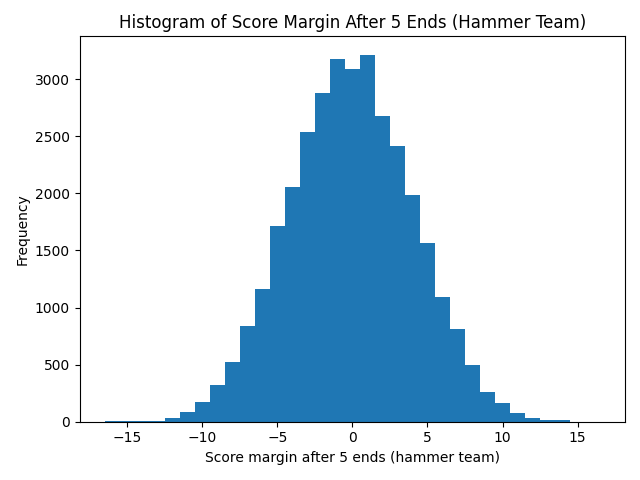
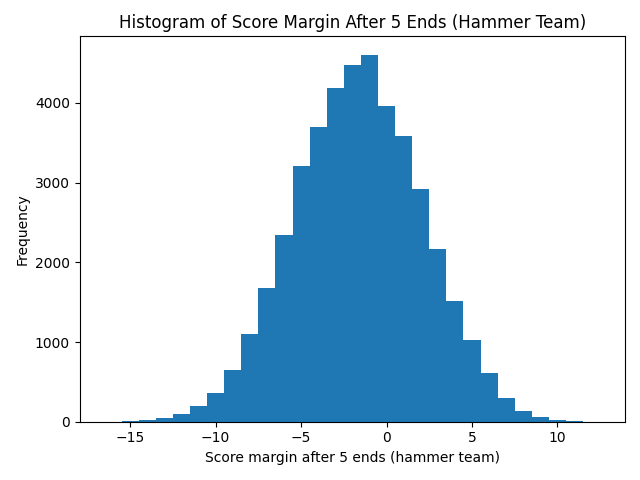
d

diff --git a/code/run_mcts.py b/code/run_mcts.py
@@ -51,13 +51,14 @@ for _ in range(matches):
     powerplays_remaining = {1: 1, 2: 1}
     pp_usage = {1: None, 2: None}
     start_hammer = hammer
-    root_team = 1
 
     for end in range(1, 9):
+        acting_team = hammer
+
         state = GameState(
             current_score = deepcopy(current_score),
             end_number = end, 
-            root_team = root_team,
+            root_team = acting_team,
             hammer_team = hammer,
             powerplay_used = deepcopy(powerplay_used),
             powerplays_remaining = deepcopy(powerplays_remaining)
@@ -66,12 +67,10 @@ for _ in range(matches):
         mcts = MCTS(bayesian_eval_continuous, 1000)
         best_action, _ = mcts.search(state)
         
-        if best_action == "PP" and powerplays_remaining[root_team] > 0:
+        if best_action == "PP" and powerplays_remaining[acting_team] > 0:
+            lead = int(current_score[hammer] - current_score[3 - hammer])
             if end == 6:
                 pp5_lead_check["pp6_total"] += 1
-
-                lead = int(current_score[root_team] - current_score[3 - root_team])
-
                 if lead > 0:
                     pp5_lead_check["hammer_leading_after_5"] += 1
                 elif lead < 0:
@@ -80,15 +79,10 @@ for _ in range(matches):
                     pp5_lead_check["hammer_tied_after_5"] += 1
 
                 pp5_lead_margin["total"] += 1
-                pp5_lead_margin["by_margin"][lead] = (
-                    pp5_lead_margin["by_margin"].get(lead, 0) + 1
-                )
+                pp5_lead_margin["by_margin"][lead] = pp5_lead_margin["by_margin"].get(lead, 0) + 1     
 
             if end == 7:
                 pp6_lead_check["pp7_total"] += 1
-
-                lead = int(current_score[root_team] - current_score[3 - root_team])
-
                 if lead > 0:
                     pp6_lead_check["hammer_leading_after_6"] += 1
                 elif lead < 0:
@@ -97,26 +91,24 @@ for _ in range(matches):
                     pp6_lead_check["hammer_tied_after_6"] += 1
 
                 pp6_lead_margin["total"] += 1
-                pp6_lead_margin["by_margin"][lead] = (
-                    pp6_lead_margin["by_margin"].get(lead, 0) + 1
-                )
+                pp6_lead_margin["by_margin"][lead] = pp6_lead_margin["by_margin"].get(lead, 0) + 1
+                
 
-            pp_usage[root_team] = end
+            pp_usage[acting_team] = end
             frequency_dict[end] += 1
-            powerplay_used[root_team] = True
-            powerplays_remaining[root_team] -= 1
+            powerplay_used[acting_team] = True
+            powerplays_remaining[acting_team] -= 1
 
+        
         dist = PROB_TABLE_END_DIFF[best_action][end]
         outcomes = list(dist.keys())
         probs = np.array(list(dist.values()), dtype=float)
         result = np.random.choice(outcomes, p=probs)        
 
-        opp_team = 3 - root_team
-
         if result > 0:
-            current_score[root_team] += result
+            current_score[hammer] += result
         elif result < 0:
-            current_score[opp_team] += -result
+            current_score[3 - hammer] += -result
  
         if result  > 0: 
             hammer = 3 - hammer  
@@ -125,11 +117,14 @@ for _ in range(matches):
         else:  
             hammer = 3 - hammer  
 
-    pp_end = pp_usage[root_team]
-    if pp_end is not None:
-        if current_score[root_team] > current_score[3 - root_team]:
+    for team in [1, 2]:
+        pp_end = pp_usage[team]
+        if pp_end is None:
+            continue
+        opp = 3 - team
+        if current_score[team] > current_score[opp]:
             wins_dict[pp_end] += 1
-        elif current_score[root_team] < current_score[3 - root_team]:
+        elif current_score[team] < current_score[opp]:
             loss_dict[pp_end] += 1
         else:
             draws_dict[pp_end] += 1
@@ -151,7 +146,7 @@ hammer_analysis = {
     "no_hammer_start": no_hammer_track
 }
 
-with open(f'/Users/brentkong/Documents/curling/figures/simulations/frequency_dict_{matches}_new.json', 'w') as f:
+with open(f'/Users/brentkong/Documents/curling/figures/simulations/frequency_dict_{matches}_both.json', 'w') as f:
     json.dump([frequency_dict, wins_dict, loss_dict, draws_dict, hammer_analysis, pp5_lead_check, pp5_lead_margin, pp6_lead_check, pp6_lead_margin], f, indent=4) 
 
 

diff --git a/figures/graphs.py b/figures/graphs.py
@@ -1,7 +1,7 @@
 import matplotlib.pyplot as plt
 import json
 
-with open('/Users/brentkong/Documents/curling/figures/simulations/frequency_dict_100000_new.json', 'r') as f:
+with open('/Users/brentkong/Documents/curling/figures/simulations/frequency_dict_100000_both.json', 'r') as f:
     data = json.load(f)
 
 frequency_dict = data[0]
@@ -14,7 +14,7 @@ by_margin_raw_6 = data[6]["by_margin"]
 hammer_summary_7 = data[7]
 by_margin_raw_7 = data[8]["by_margin"]
 matches = frequency_dict.pop("matches")
-mode = "percent_7"
+mode = "percent_6"
 
 if mode == "frequency": 
     categories = list(frequency_dict.keys())
